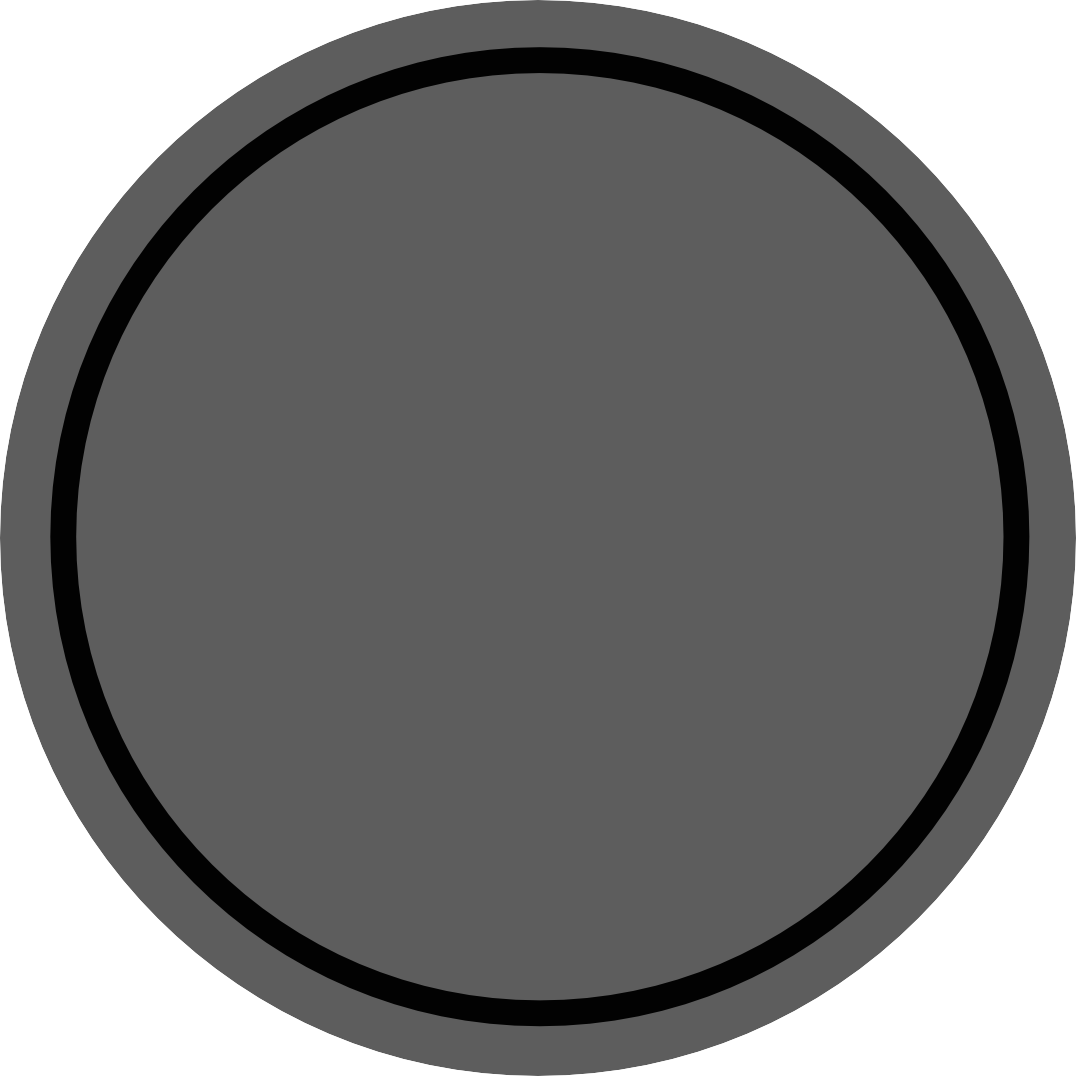
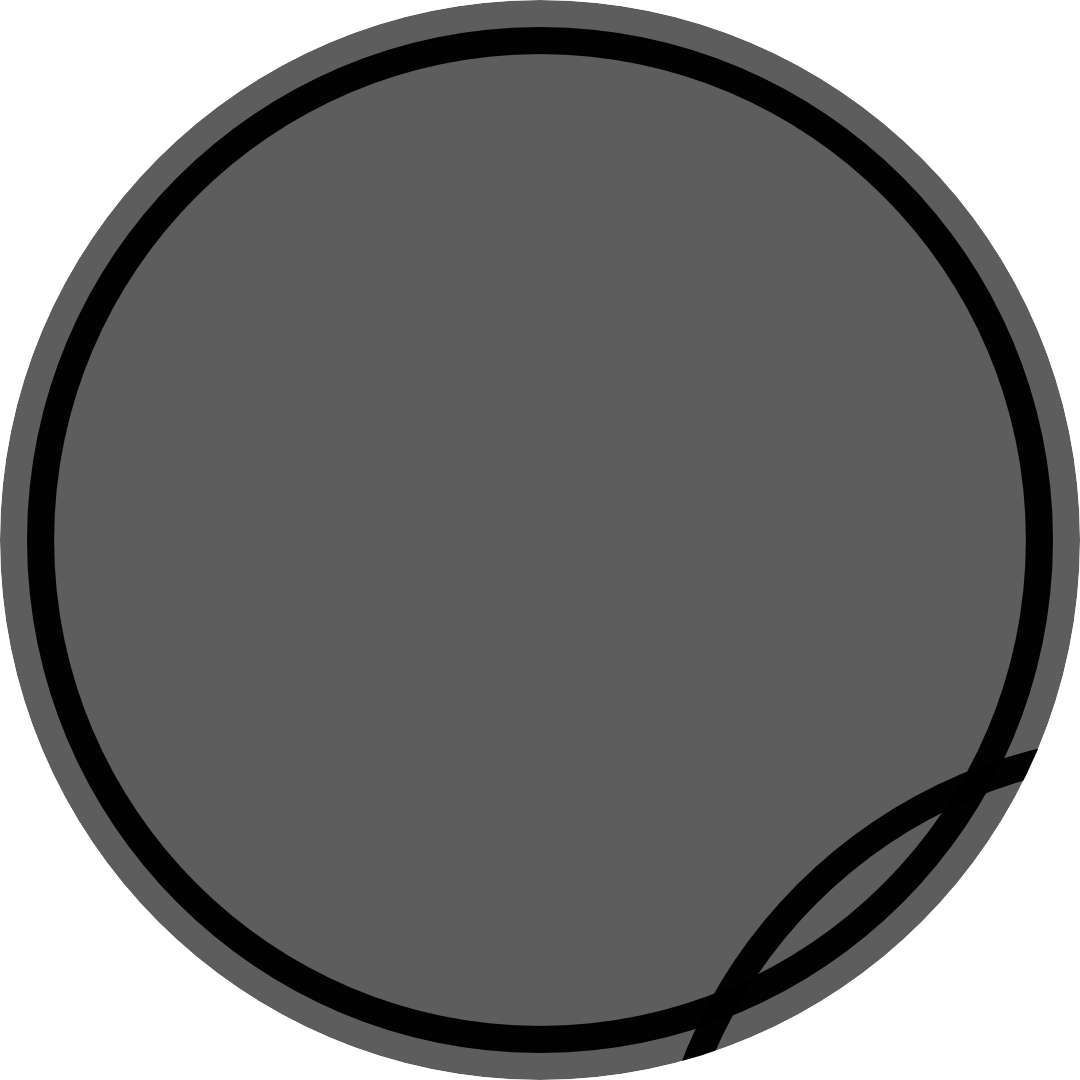
size/position

Changed region(s): [[0.0, 0.0, 0.9814, 0.9814]]

diff --git a/AndroidCarDashhboard/main2017.qml b/AndroidCarDashhboard/main2017.qml
@@ -15,10 +15,10 @@ Window {
     id: applicationWindow
     visible: true
     //visibility: "FullScreen"
-    maximumWidth: 1920
-    maximumHeight: 1200
-    minimumWidth: 1920
-    minimumHeight: 1200
+    maximumWidth: 1920/2
+    maximumHeight: 1200/2
+    minimumWidth: 1920/2
+    minimumHeight: 1200/2
 
     title: qsTr("AndroidCANDashboard")
 
@@ -115,40 +115,64 @@ Window {
         height: parent.height
 
 
-        Image {
-            id: rpmometerBackground
-            source: "RPMometer.png"
-            height: parent.height*.52;
-            fillMode: Image.PreserveAspectFit
-            anchors.verticalCenter: speedometerBackground.verticalCenter
-            anchors.horizontalCenter: speedometerBackground.left
+
+        Rectangle {
+            id:speedometerPositioner
+            color: "black"
+            x: 903.2/2
+            y: 411.8/2
         }
 
+        Rectangle {
+            id:rpmPositioner
+            color: "black"
+            width: parent.width * .40
+            height: parent.height
+            anchors.right: parent.right
+        }
+
+        Rectangle {
+            id:windometerPositioner
+            color: "black"
+            width: parent.width * .40
+            height: parent.height
+            anchors.right: parent.right
+        }
 
         Image {
             id: windometerBackground
             source: "Windometer.png"
-            height: parent.height*.52;
+            height: parent.height * 0.52
             fillMode: Image.PreserveAspectFit
             anchors.verticalCenter: speedometerBackground.bottom
             anchors.horizontalCenter: speedometerBackground.horizontalCenter
         }
 
         Image {
+            id: rpmometerBackground
+            source: "RPMometer.png"
+            height: parent.height * 0.52
+            fillMode: Image.PreserveAspectFit
+
+            anchors.top:  speedometerBackground.top
+            anchors.horizontalCenter: speedometerBackground.left
+        }
+
+        Image {
             id: speedometerBackground
             source: "Speedometer.png"
-            height: parent.height*3/5;
+            height: parent.height * 0.6
             fillMode: Image.PreserveAspectFit
-            anchors.right: parent.horizontalCenter
-            anchors.rightMargin: -90
+            anchors.horizontalCenter: speedometerPositioner.horizontalCenter
+            anchors.verticalCenter: speedometerPositioner.verticalCenter
         }
 
 
         CircularGauge {
             id: rpmometer
             parent: rpmometerBackground
-            width: rpmometerBackground.width
-            height: rpmometerBackground.height
+            width: rpmometerBackground.width * 0.9
+            height: rpmometerBackground.height * 0.9
             anchors.verticalCenter: rpmometerBackground.verticalCenter;
             anchors.horizontalCenter: rpmometerBackground.horizontalCenter;
 
@@ -196,8 +220,8 @@ Window {
         CircularGauge {
             id: windometer
             parent: windometerBackground
-            width: windometerBackground.width
-            height: windometerBackground.height
+            width: windometerBackground.width * 0.9
+            height: windometerBackground.height * 0.9
             anchors.verticalCenter: windometerBackground.verticalCenter;
             anchors.horizontalCenter: windometerBackground.horizontalCenter;
 
@@ -218,12 +242,14 @@ Window {
 
             style: NewDashboardGaugeStyle
             {
-                startingAngle: 90
-                endingAngle: 270
+                startingAngle: 270
+                endingAngle: 90
+                reverseArc: true
                 minValue: parent.minimumValue
                 maxValue: parent.maximumValue
-                lowValues: 15
-                highValues: -15
+                stepSize: 10
+                lowValues: -15
+                highValues: 15
                 label: "mph"
                 values: UIRaceDataset.groundSpeed //| (parent.randVal * (maxValue - minValue) + minValue)
             }
@@ -244,8 +270,8 @@ Window {
         CircularGauge {
             id: speedometer
             parent: speedometerBackground
-            width: speedometerBackground.width
-            height: speedometerBackground.height
+            width: speedometerBackground.width * 0.9
+            height: speedometerBackground.height * 0.9
             anchors.verticalCenter: speedometerBackground.verticalCenter;
             anchors.horizontalCenter: speedometerBackground.horizontalCenter;
 

diff --git a/AndroidCarDashhboard/NewDashboardGaugeStyle.qml b/AndroidCarDashhboard/NewDashboardGaugeStyle.qml
@@ -6,13 +6,15 @@ CircularGaugeStyle {
     property real endingAngle: 145
     property real stepSize: 5
 
-    tickmarkInset: 30
+    tickmarkInset: 10
     minorTickmarkInset: tickmarkInset
     tickmarkStepSize: stepSize
     labelStepSize: stepSize
     minimumValueAngle: startingAngle
     maximumValueAngle: endingAngle
-    labelInset: toPixels(0.42)
+    labelInset: toPixels(0.32)
+
+    property bool reverseArc: false
 
     property real xCenter: outerRadius
     property real yCenter: outerRadius
@@ -83,21 +85,21 @@ CircularGaugeStyle {
         ctx.beginPath();
         ctx.lineWidth = 35;
         ctx.strokeStyle = lowValuesColor;
-        ctx.arc(ctx.canvas.width/2, ctx.canvas.height/2, ctx.canvas.width/2 - 47, startAngle, startAngle + ((lowValues - minValue) / range) * (wholeAngle));
+        ctx.arc(ctx.canvas.width/2, ctx.canvas.height/2, parent.height/2 - 17.5, startAngle, startAngle + ((lowValues - minValue) / range) * (wholeAngle), reverseArc);
         ctx.stroke();
 
         // HIGH VALUE ARC
         ctx.beginPath();
         ctx.lineWidth = 35;
         ctx.strokeStyle = highValuesColor;
-        ctx.arc(ctx.canvas.width/2, ctx.canvas.height/2, ctx.canvas.width/2 - 47, endAngle - (((range  - (highValues - minValue)) / range) * (wholeAngle)), endAngle);
+        ctx.arc(ctx.canvas.width/2, ctx.canvas.height/2, parent.height/2 - 17.5, endAngle - (((range  - (highValues - minValue)) / range) * (wholeAngle)), endAngle, reverseArc);
         ctx.stroke();
 
         // INNER WHITE ARC FOR VALUES
         ctx.beginPath();
         ctx.lineWidth = 6;
         ctx.strokeStyle = innerCirclingColor;
-        ctx.arc(ctx.canvas.width/2, ctx.canvas.height/2, ctx.canvas.width/2 - 66.5, startAngle, endAngle);
+        ctx.arc(ctx.canvas.width/2, ctx.canvas.height/2, parent.height/2 - 3, startAngle, endAngle, reverseArc);
         ctx.stroke();
     }
 
